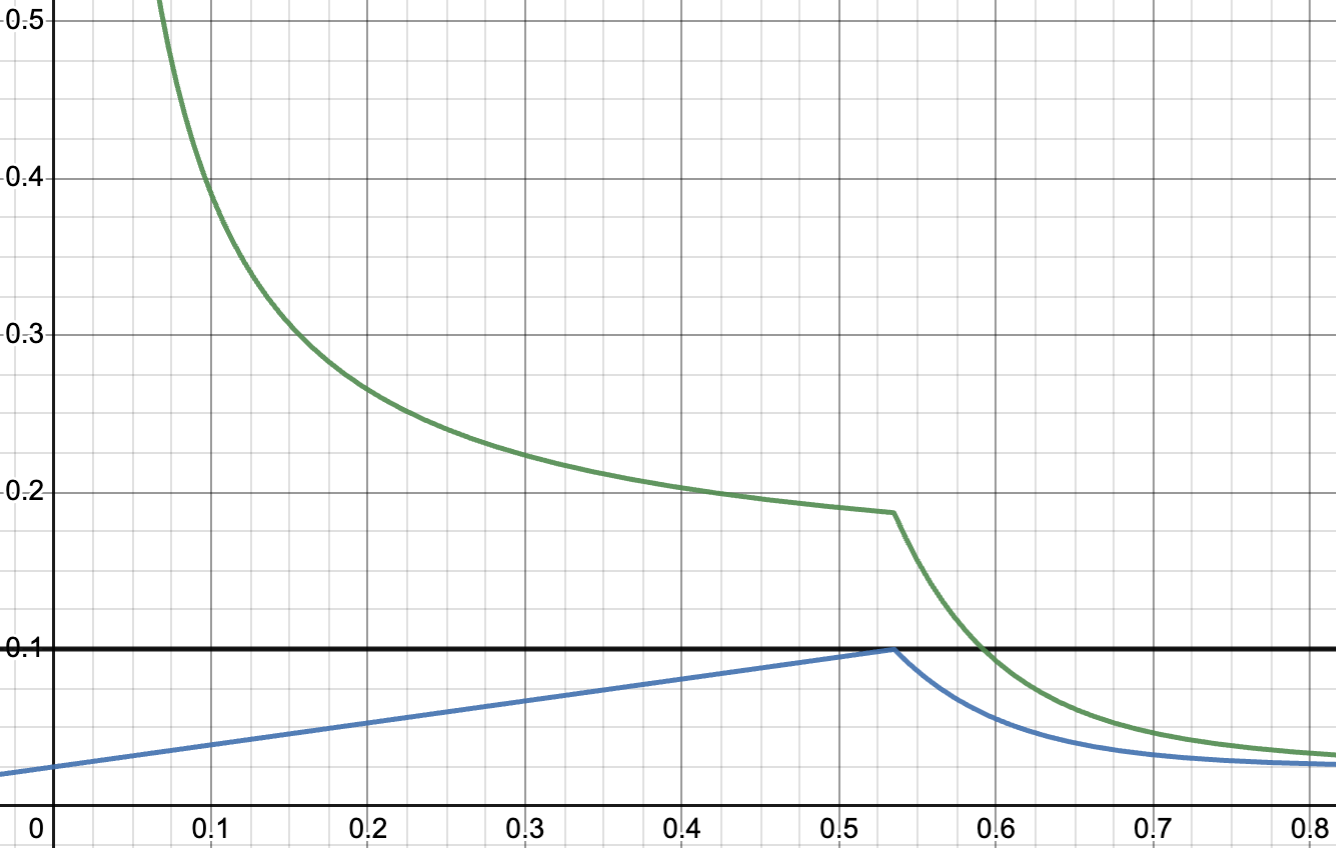
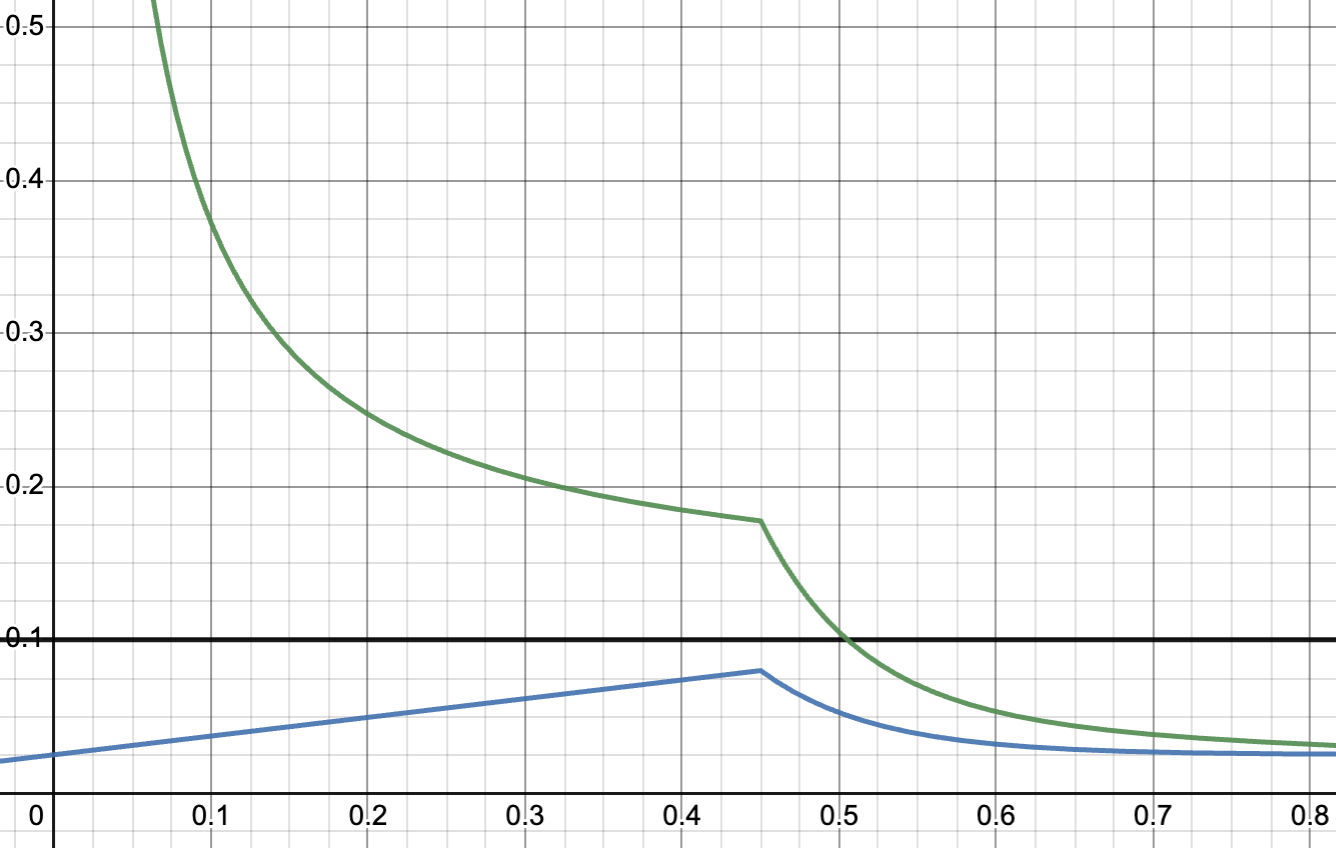
updates

Changed region(s): [[0.0, 0.0, 1.0, 1.0]]

diff --git a/syllabus/7-Polkadot/9-polkadot-ecosystem-economy-slides.md b/syllabus/7-Polkadot/9-polkadot-ecosystem-economy-slides.md
@@ -156,13 +156,12 @@ RFC for Flexible Inflation: https://github.com/polkadot-fellows/RFCs/pull/89
 
 ## Ideal Staking Rate
 
-We cannot force / tell users how to use their tokens, so we encourage "ideal" behavior by associating DOT token usage to how inflation is distributed.
-
-There’s a function that redirects some of the 10% inflation to the Treasury, instead of the stakers, when `ideal_rate != staking_rate`.
-
-Token holders are financially incentivized to maximize their staking returns, and thus distribute their tokens appropriately.
-
-[Ideal staking rate model to be revisited](https://forum.polkadot.network/t/adjusting-polkadots-ideal-staking-rate-calculation/3897) after parachain slot auctions are discontinued.
+- We cannot force / tell users how to use their tokens.
+  - So we encourage "ideal" behavior by associating DOT token usage to how inflation is distributed.
+  - There’s a function that redirects staking inflation to the Treasury, instead of the stakers, when `ideal_rate != staking_rate`.
+  - Token holders are financially incentivized to maximize their staking returns, and thus distribute their tokens appropriately.
+- Ideal Staking Rate is in the process of being adjusted since the introduction of coretime sales:
+  - https://forum.polkadot.network/t/adjusting-polkadots-ideal-staking-rate-calculation/3897
 
 ---
 
@@ -176,13 +175,26 @@ Token holders are financially incentivized to maximize their staking returns, an
 >
 > Black: Total Inflation vs Staking Rate
 
+Notes:
+
+Blue line shows that:
+- When there is too little being staked, validators are encouraged to stake more.
+- When there is too much being staked, validators are encouraged to stake less.
+
+Green line shows that validator APY goes down whenever more validators enter the staking system, that is unavoidable, but specifically past the ideal staking rate, the decrease in APY sharply decreases.
+
+Black line shows that inflation for for the whole network is fixed at 10%.
+
+The gap between the blue line and the black line shows the amount of inflation that is forwarded to the treasury, as compared to given to validators.
+Event at the ideal staking rate, some percentage of the inflation is guaranteed to go to the treasury.
+
 ---
 
-## DOT Utility: Parachains
+## DOT Utility: Blockspace
 
 Polkadot provides many utilities, but arguably its most important utility is providing flexible, secure, and scalable blockspace.
 
-Developers can purchase this blockspace as fixed-term or on-demand Parachains, **only** with the DOT token.
+Developers can purchase this blockspace **only** with the DOT token.
 
 <br />
 
